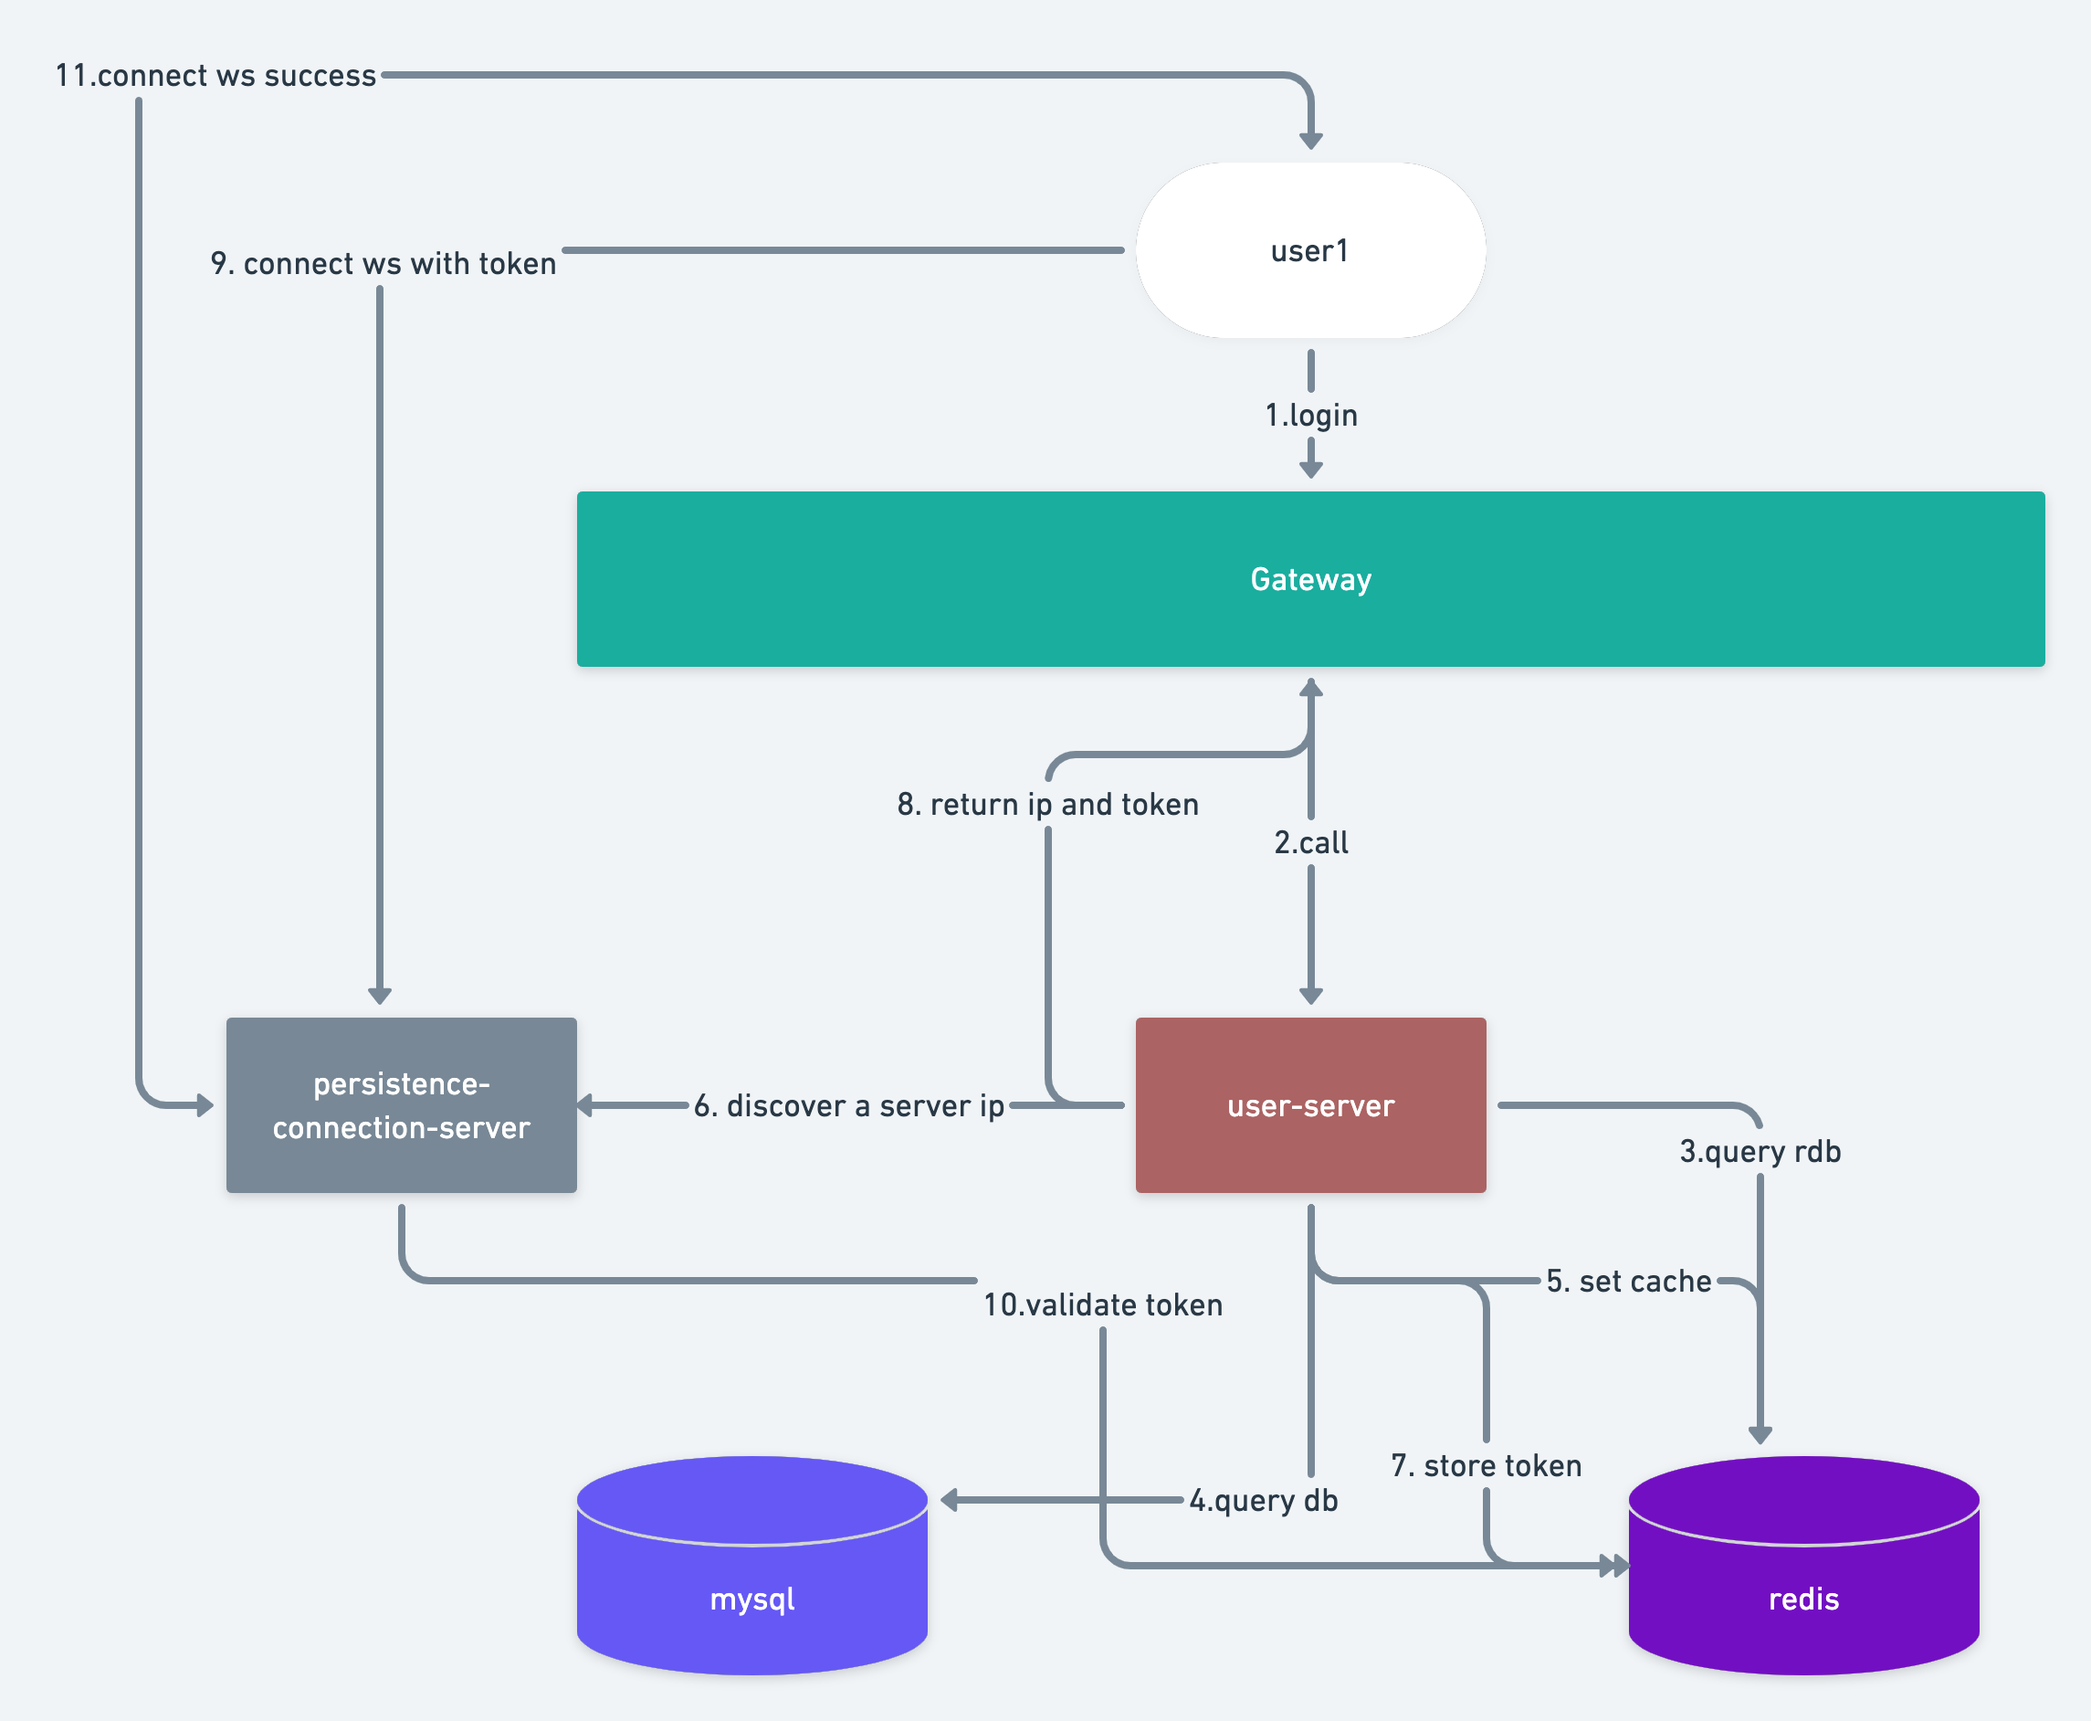
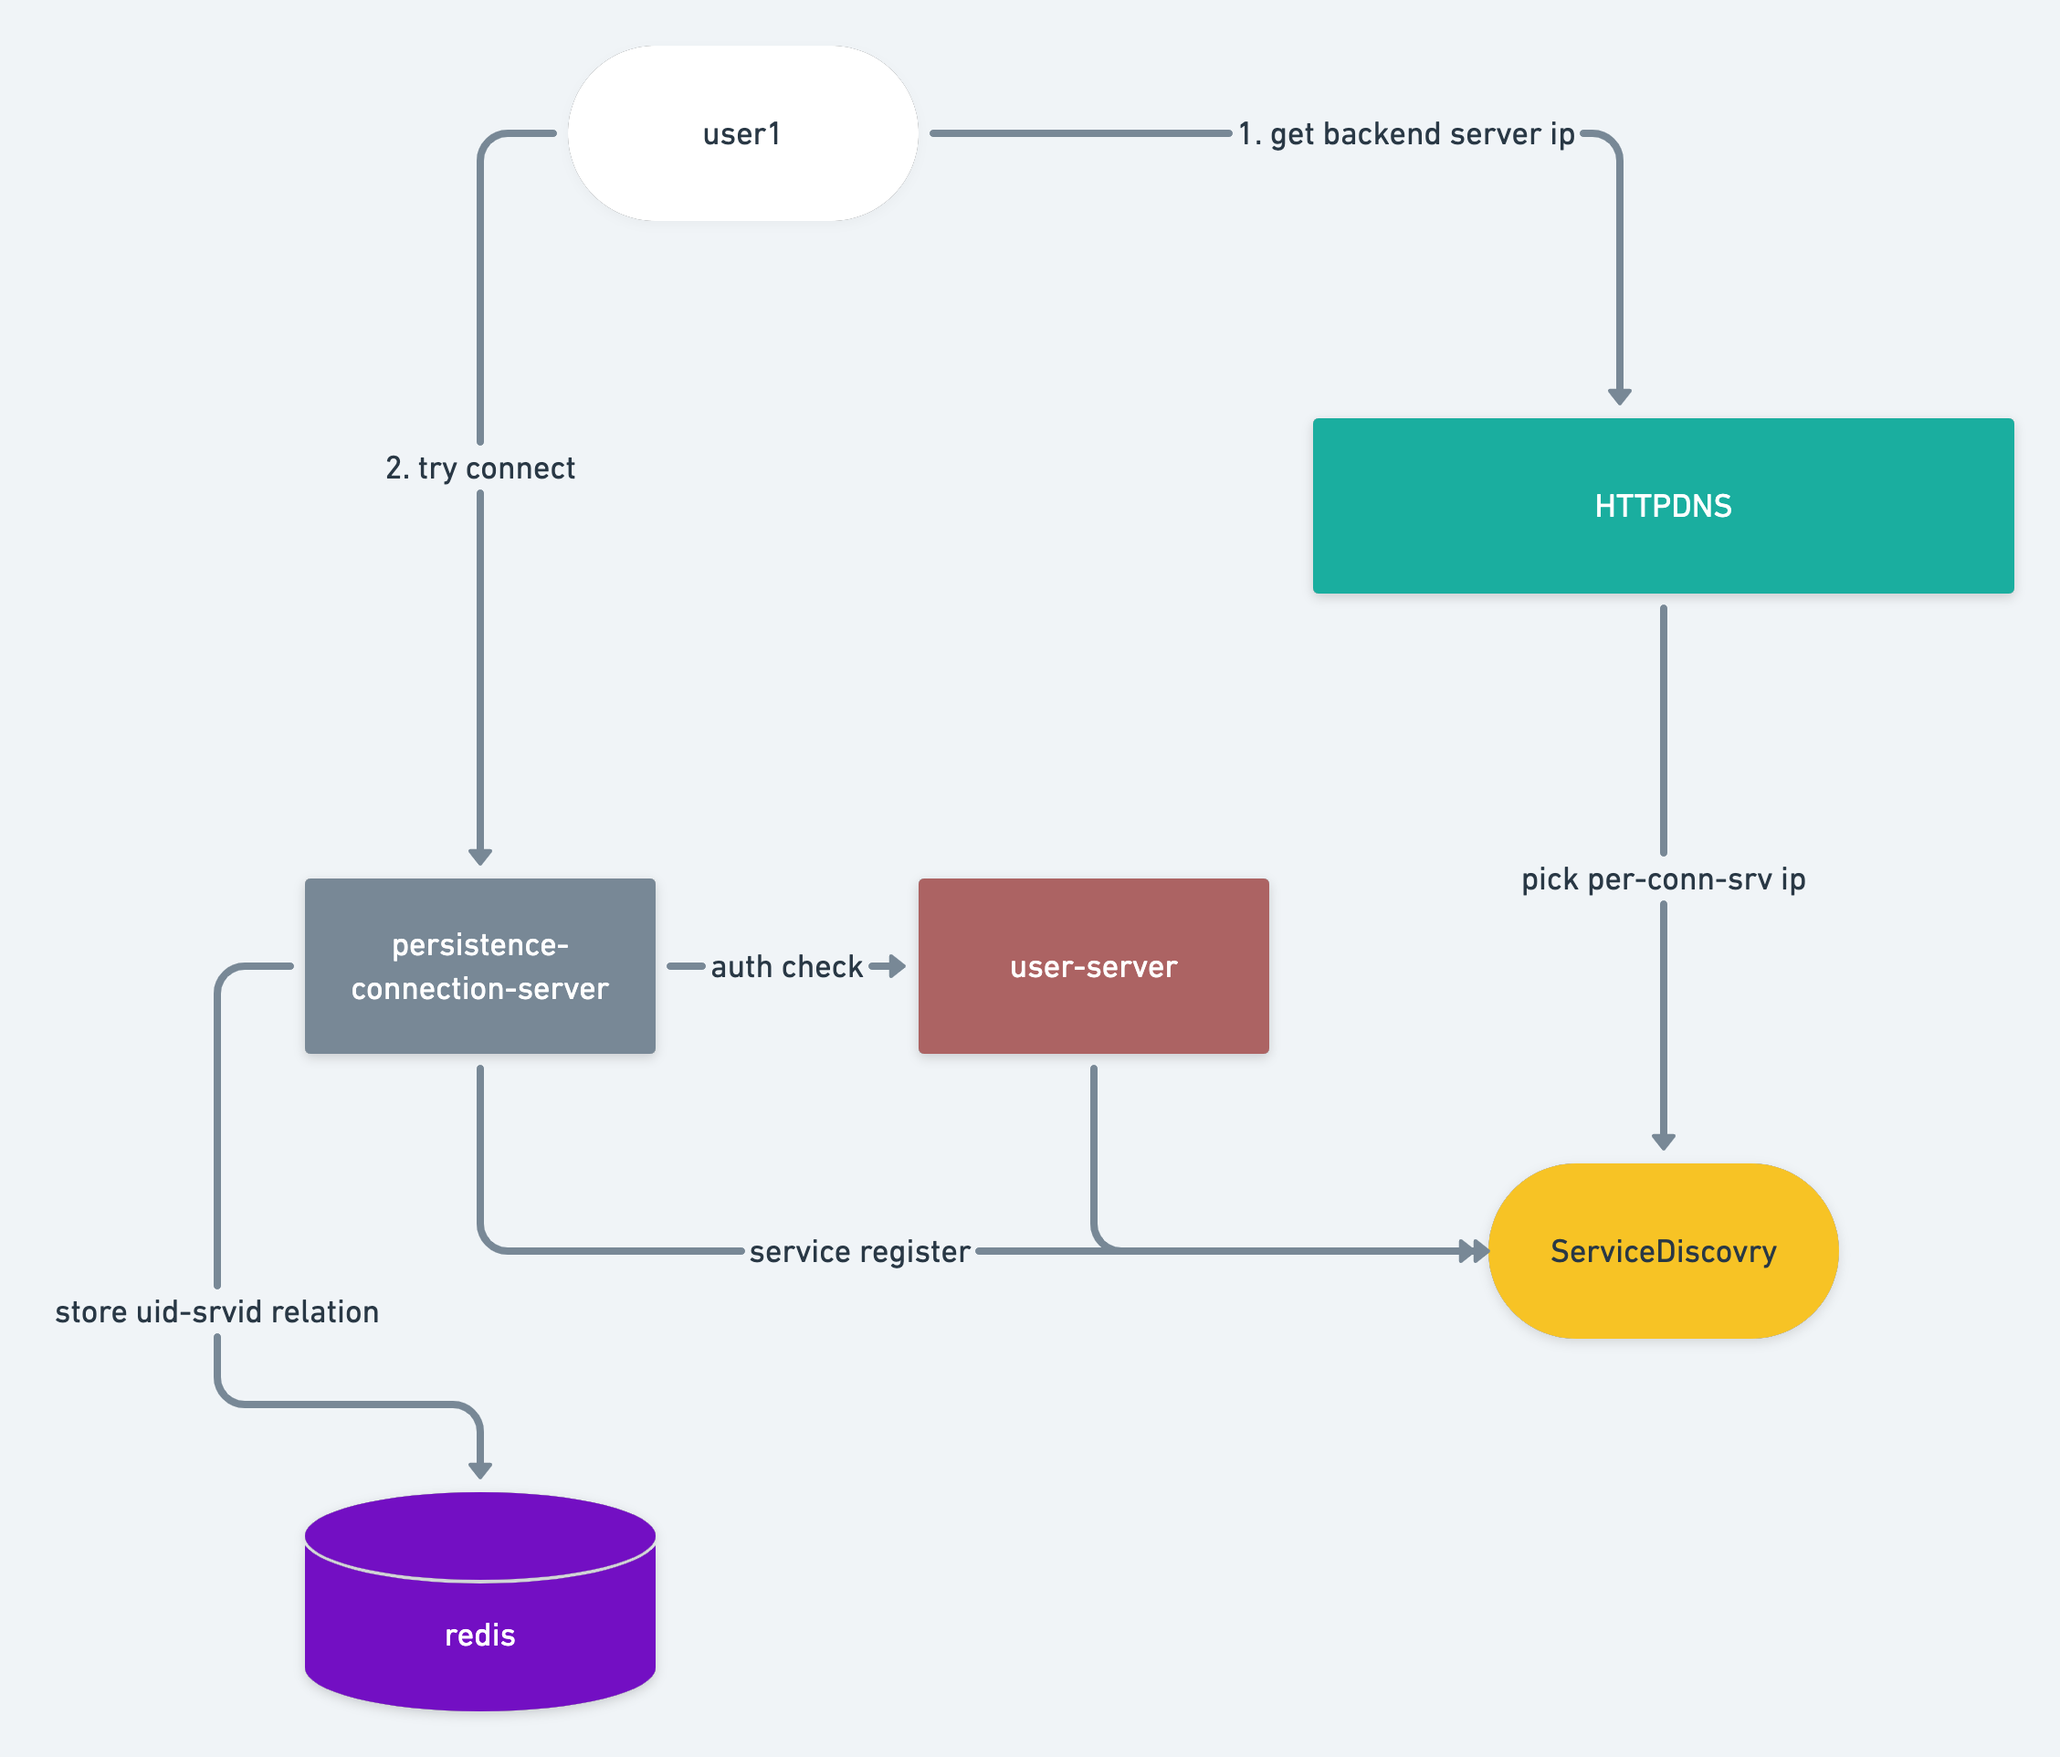
feat: design #1

diff --git a/README.md b/README.md
@@ -2,7 +2,7 @@
 
 IM Server written by golang.
 
-选型参考：https://zhuanlan.zhihu.com/p/31377253
+选型参考：[https://zhuanlan.zhihu.com/p/31377253](https://zhuanlan.zhihu.com/p/31377253)
 
 ## Desing
 
@@ -10,8 +10,38 @@ IM Server written by golang.
 
 ## user connect to server with websocket
 
+客户端如何连接长连接服务，目前我有两个方案各有优缺点，但是还没确定。
+
+### 反向代理方案
+
+客户端统一入口在 gateway 上，gateway 支持反向代理能力，客户端发起长连接请求时，代理到后端的服务（这里准备使用一致性哈希来确定转发到哪台机器上）
+
+优点:
+
+- 入口统一，且可以在 gateway 上完成鉴权等操作
+- 后端服务无需暴露 ip，且可任意扩缩容
+
+缺点：
+
+- gateway 需要承受长连接带来的压力，需要更多的 gateway 来承受大量在线用户的情况
+
+### httpdns 方案
+
+客户端先通过暴露的域名，去访问 httpdns 服务获取真正后端服务的 ip，然后通过 ip 直接进行长连接
+
+优点：
+
+- 客户端与长连接服务器直连，减少代理层的压力
+
+缺点：
+
+- 没有统一的鉴权入口，入口分散
+- 要求暴露后端服务 ip，安全性降低且比较浪费 ip 资源
+
 ![ws](./static/conn_ws.png)
 
 ## send/rec msg
+
+IM 数据将在 HBASE 上存储，关系型数据存在 MySQL
 
 ![msg](./static/send_rec_msg.png)
